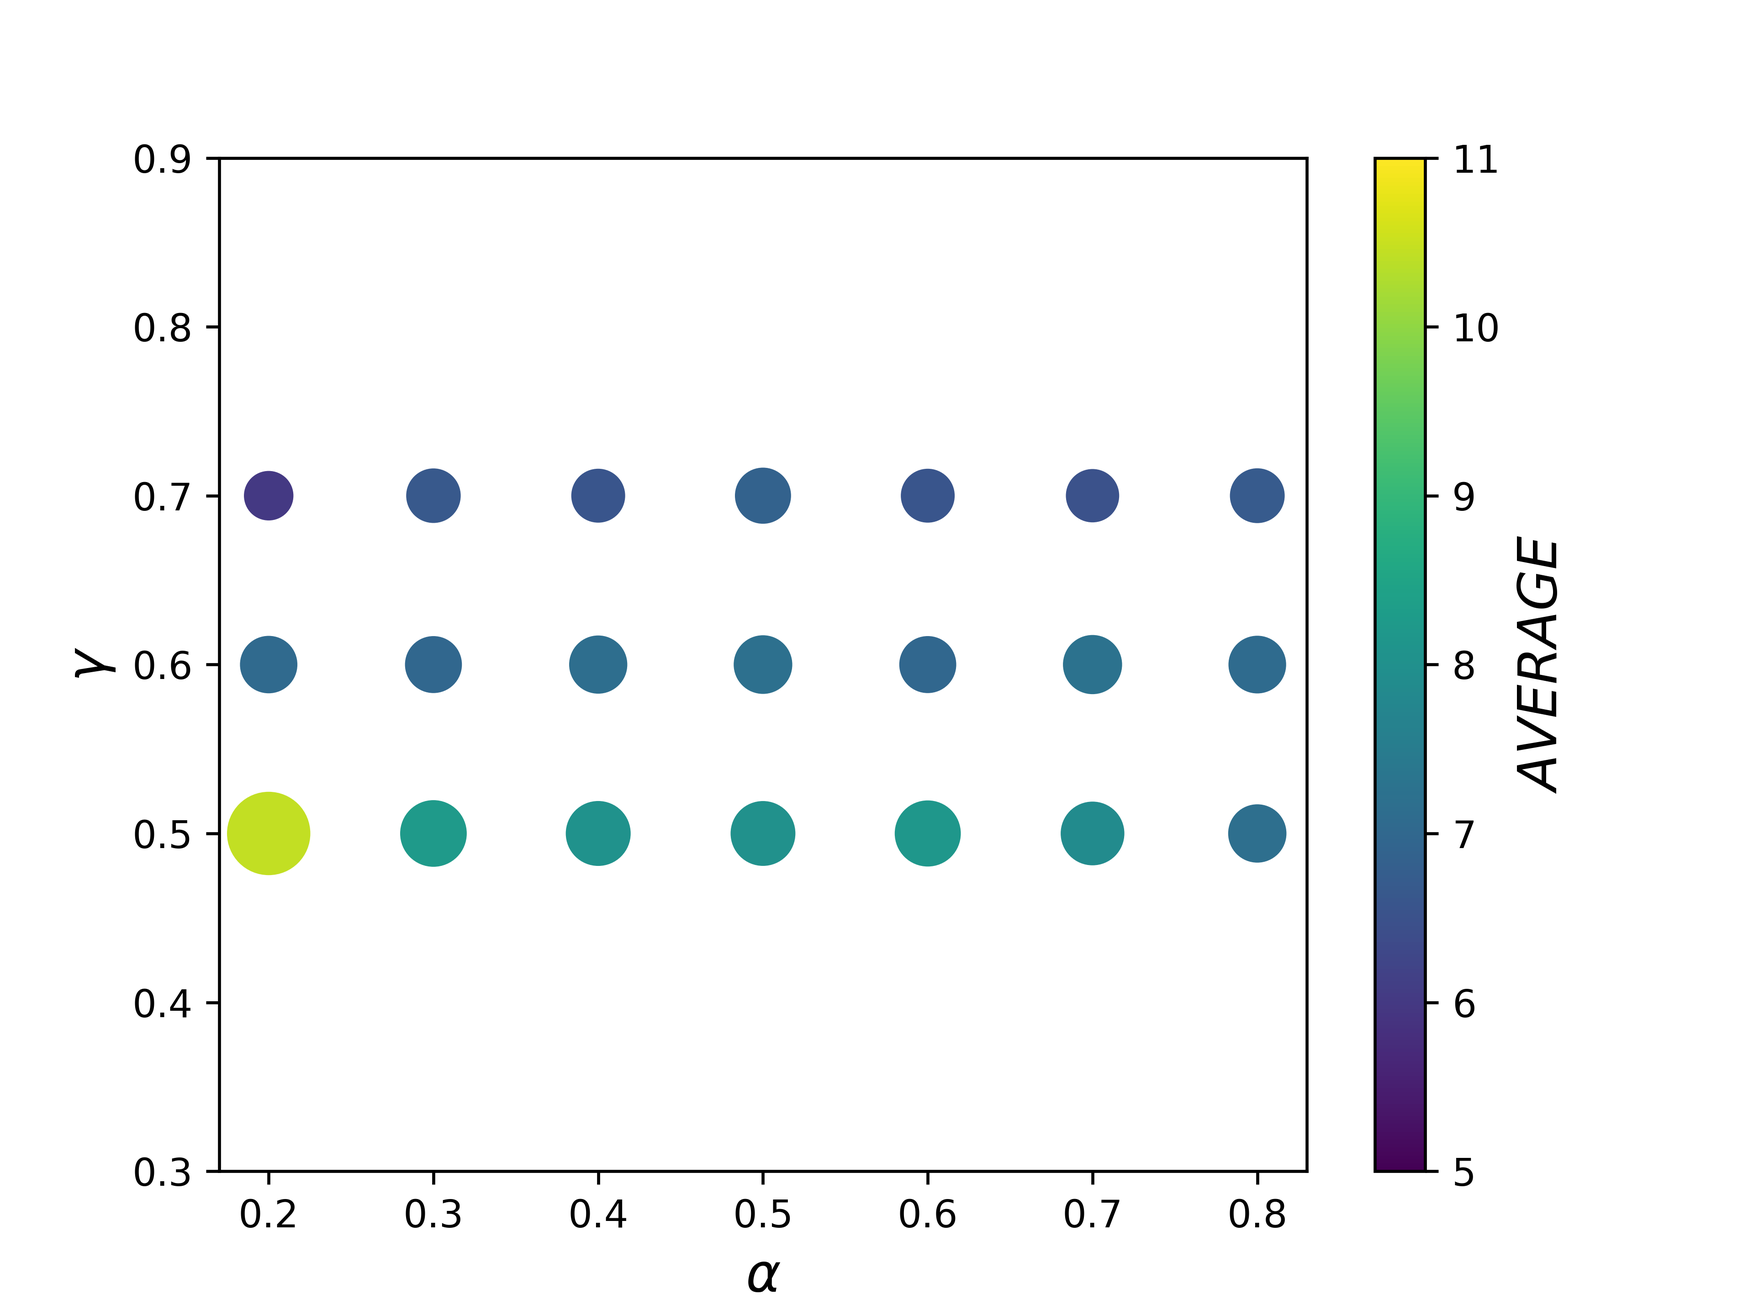
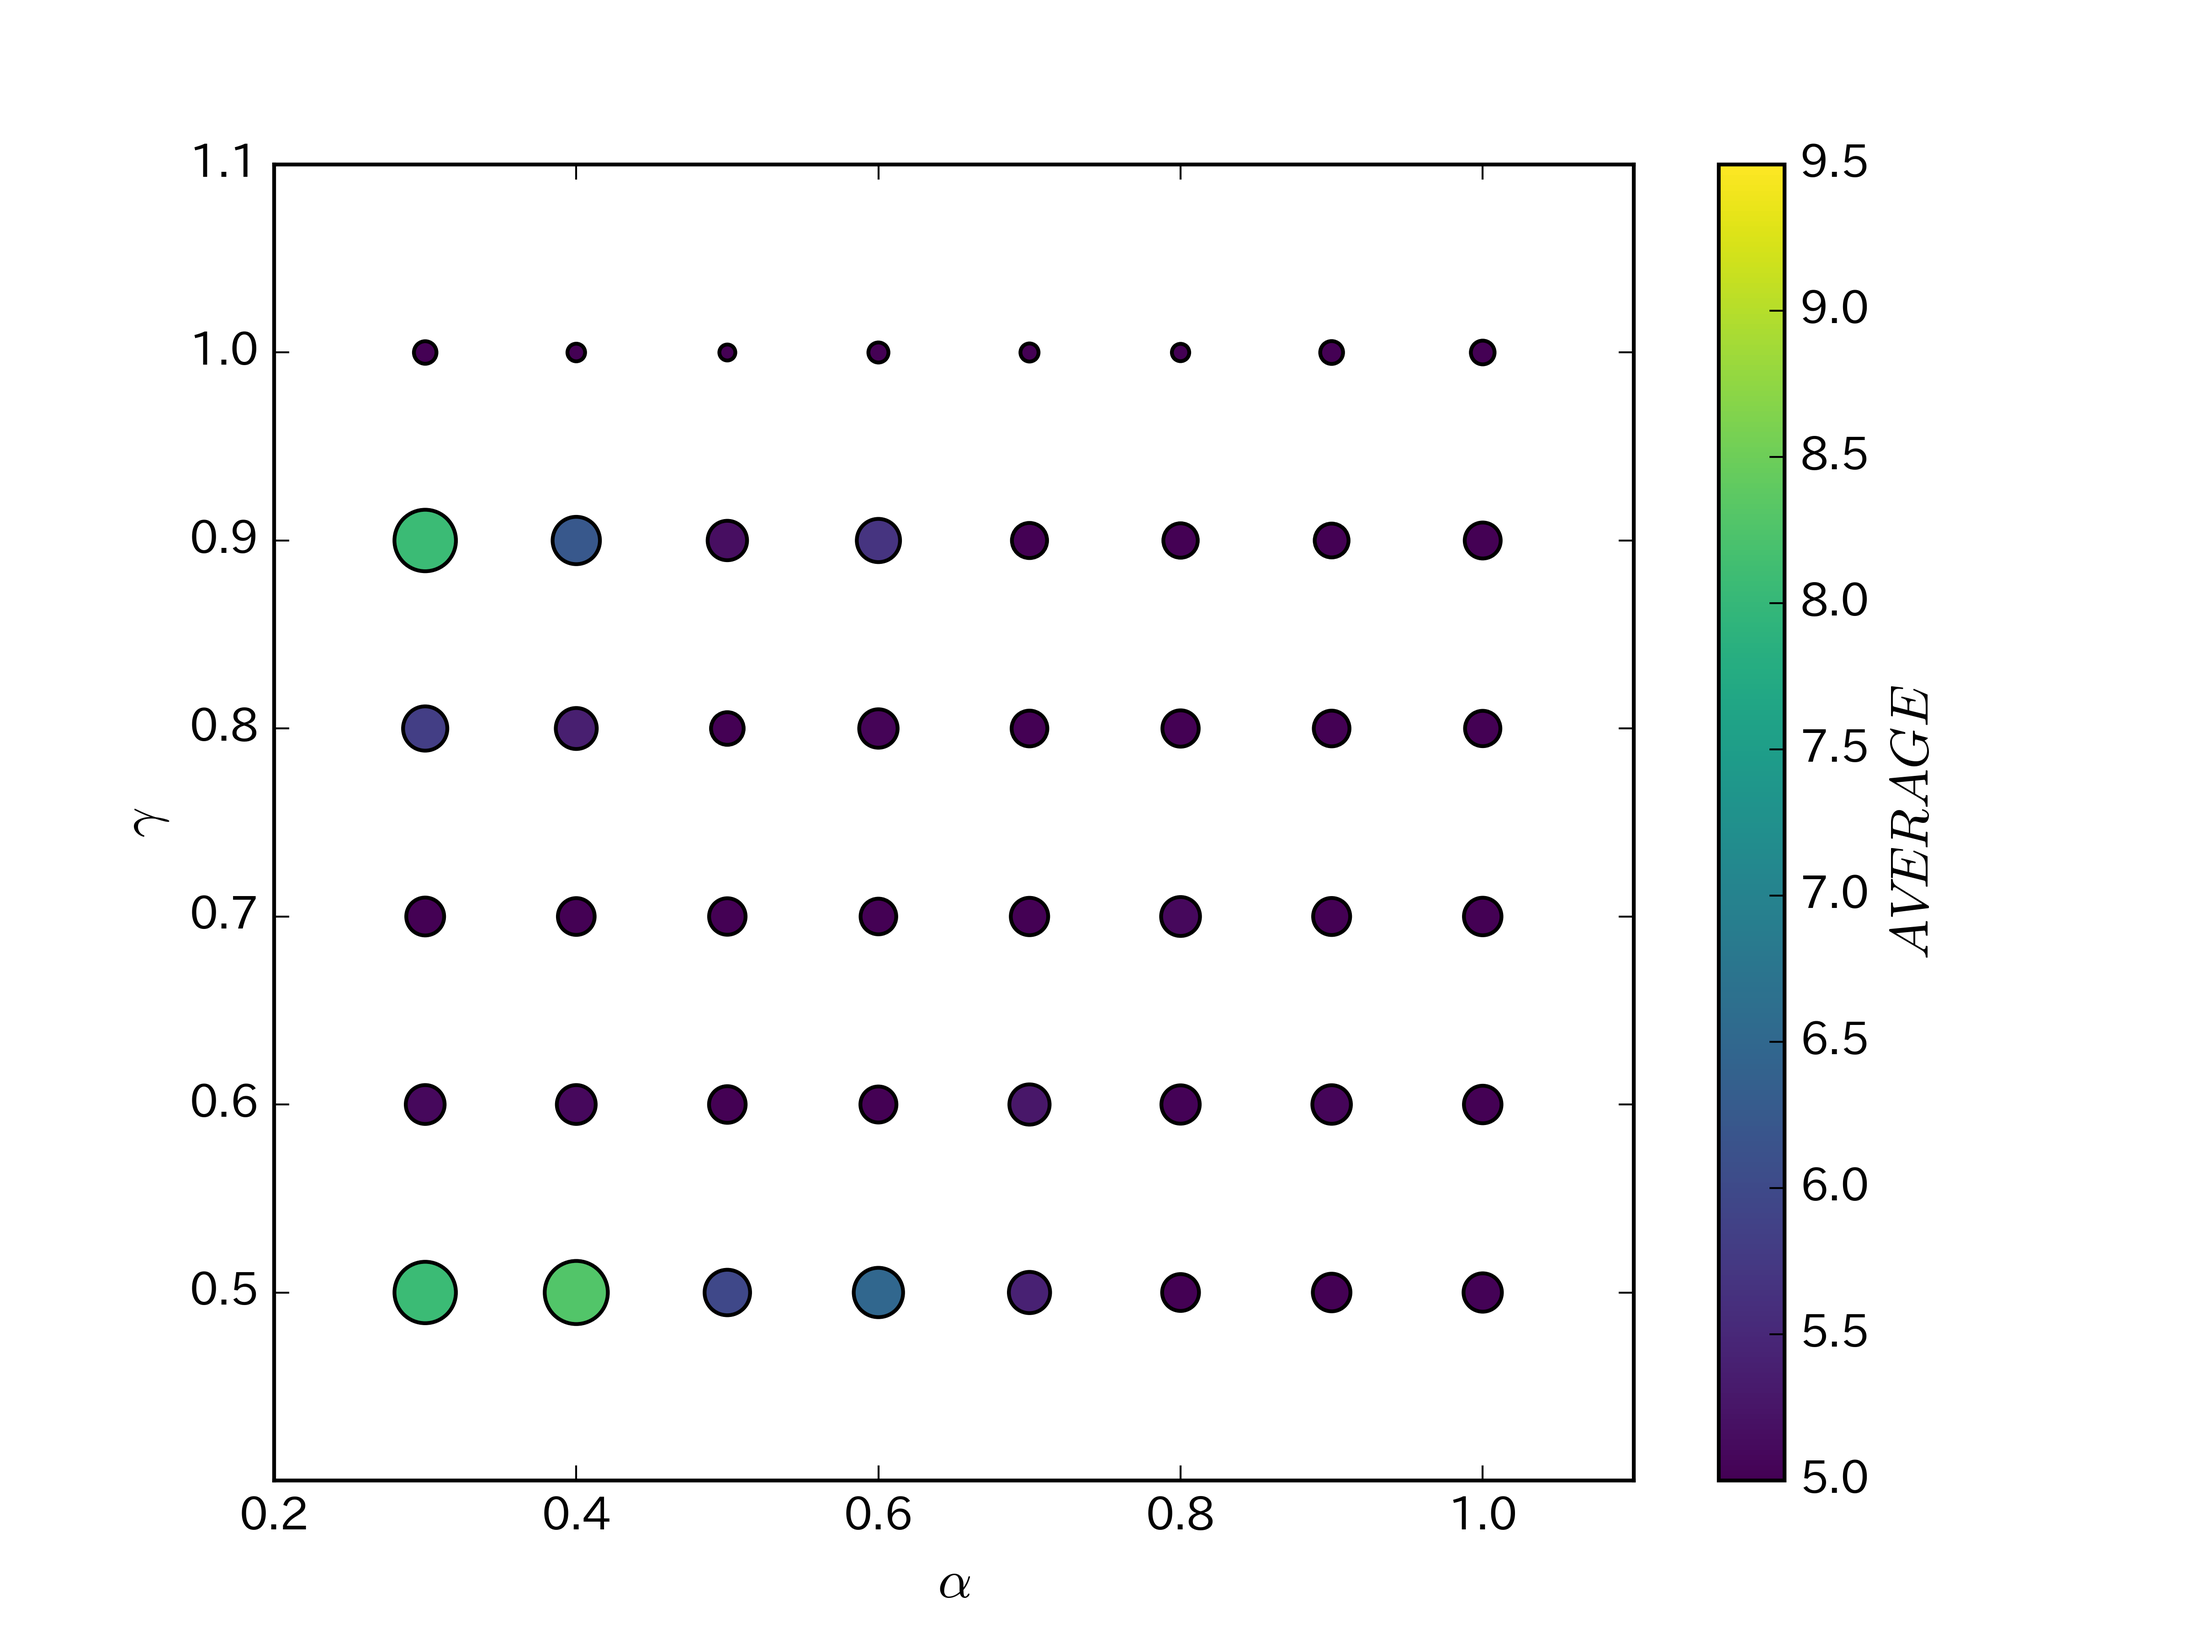
[add] graph of grid search

diff --git a/pepper_training/src/hyper_parameter_controller.py b/pepper_training/src/hyper_parameter_controller.py
@@ -5,7 +5,7 @@ from result_controller import ResultController
 
 
 class HyperParameterController():
-  def __init__(self, alphas, gammas) -> None:
+  def __init__(self, alphas, gammas):
     self.alphas = alphas
     self.gammas = gammas
     
@@ -18,7 +18,7 @@ class HyperParameterController():
         graph_y_row = []
         graph_z_row = []
         for gamma in self.gammas:
-          result_controller = ResultController("a={:.1}-g={:.1}".format(alpha, gamma))
+          result_controller = ResultController("a={:.1f}-g={:.1f}".format(alpha, gamma))
           average = result_controller.get_average()
           positive_average = average + 20
           graph_x_row.append(alpha)
@@ -30,30 +30,30 @@ class HyperParameterController():
     graph_x=np.array(graph_x)
     graph_y=np.array(graph_y)
     graph_z=np.array(graph_z)
-    min_z = np.min(graph_z)
-    pos_min_z = np.argwhere(graph_z == np.min(graph_z))[0]
-    print('Minimum RMSE: %.4f' %(min_z))
-    print('Optimum alpha: %f' %(graph_x[pos_min_z[0],pos_min_z[1]]))
-    print('Optimum gamma: %f' %(graph_y[pos_min_z[0],pos_min_z[1]]))
+    max_z = np.max(graph_z)
+    pos_max_z = np.argwhere(graph_z == np.max(graph_z))[0]
+    print('Maximum Average: %.4f' %(max_z))
+    print('Optimum alpha: %f' %(graph_x[pos_max_z[0],pos_max_z[1]]))
+    print('Optimum gamma: %f' %(graph_y[pos_max_z[0],pos_max_z[1]]))
     return graph_x,graph_y,graph_z
 
   def plot_hyperparams_grid(self):
     graph_x, graph_y, graph_z = self._create_hyperparams_grid()
     size_list=np.array(graph_z)
     size_list=size_list**2 * 4
-    points=plt.scatter(graph_x, graph_y, c=graph_z, cmap='viridis',vmin=5,vmax=11,marker='o',s=size_list)
+    points=plt.scatter(graph_x, graph_y, c=graph_z, cmap='viridis',vmin=5,vmax=9.5,marker='o',s=size_list)
     cbar=plt.colorbar(points)
     cbar.set_label("$AVERAGE$", fontsize=14)
     plt.xlabel(r'$\alpha$',fontsize=14)
     plt.ylabel(r'$\gamma$',fontsize=14)
-    plt.yticks(np.arange(0.3,1.0,0.1))
+    plt.yticks(np.arange(0.5,1.1,0.1))
     file_name = 'hyperparams_grid.png'
     plt.savefig(file_name,format='png',dpi=600)
     plt.close()
 
 if __name__ == '__main__':
-  Alphas = HyperParameter(0.2, 0.8, 0.1)
-  Gammas = HyperParameter(0.5, 0.7, 0.1)
+  Alphas = [0.3, 0.4, 0.5, 0.6, 0.7, 0.8, 0.9, 1.0]
+  Gammas = [0.5, 0.6, 0.7, 0.8, 0.9, 1.0]
   # print(Alphas.values, Gammas.values)  
-  hyper_parameter_controller = HyperParameterController(Alphas.values, Gammas.values)
+  hyper_parameter_controller = HyperParameterController(Alphas, Gammas)
   hyper_parameter_controller.plot_hyperparams_grid()

diff --git a/pepper_training/src/result_controller.py b/pepper_training/src/result_controller.py
@@ -3,7 +3,7 @@ import matplotlib.pyplot as plt
 import numpy as np
 import os
 import pandas as pd
-# import rospkg
+import rospkg
 import sys
 
 from result import Result
@@ -12,17 +12,17 @@ class ResultController():
 
   def __init__(self, file_name_end):
     # Set the file path ファイルパスを設定
-    # rospack = rospkg.RosPack()
-    # pkg_path = rospack.get_path('pepper_training')
+    rospack = rospkg.RosPack()
+    pkg_path = rospack.get_path('pepper_training')
     
     # Windows用
-    pkg_path = os.getcwd()
-    pkg_path = pkg_path[:-4]
+    # pkg_path = os.getcwd()
+    # pkg_path = pkg_path[:-4]
 
     self.file_name_end = file_name_end
-    self.reward_fig = pkg_path + '/training_results/2022-06-30-grid-search1/reward-'+ file_name_end + '.png'
-    self.reward_file_path = pkg_path + '/training_results/2022-06-30-grid-search1/reward-'+ file_name_end + '.csv'
-    self.q_matrix_file_path = pkg_path + '/training_results/2022-06-30-grid-search1/q_matrix-'+ file_name_end + '.txt'
+    self.reward_fig = pkg_path + '/training_results/reward-'+ file_name_end + '.png'
+    self.reward_file_path = pkg_path + '/training_results/reward-'+ file_name_end + '.csv'
+    self.q_matrix_file_path = pkg_path + '/training_results/q_matrix-'+ file_name_end + '.txt'
 
   def write(self, rewards, succeeds, q_matrix):
     """Output result dataframe to csv"""
